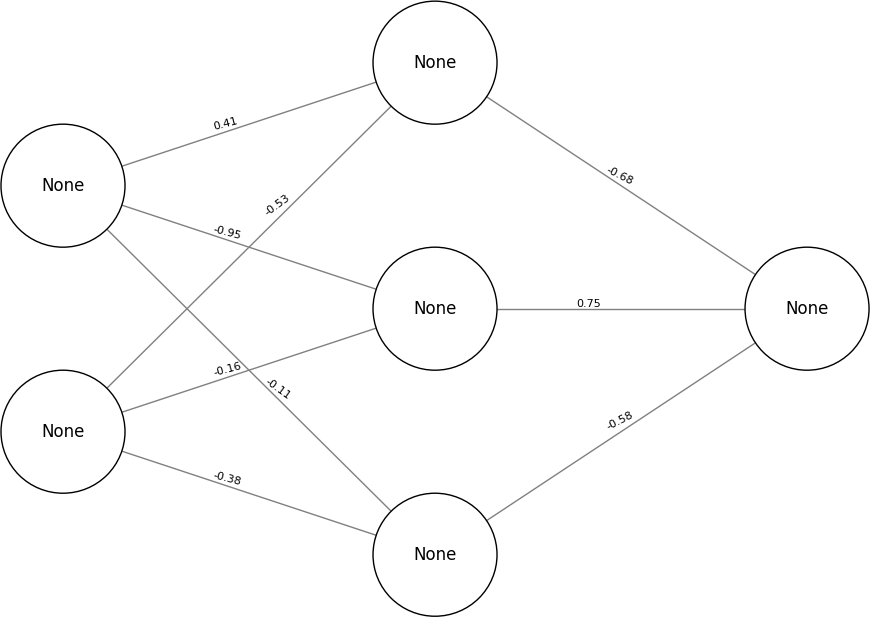
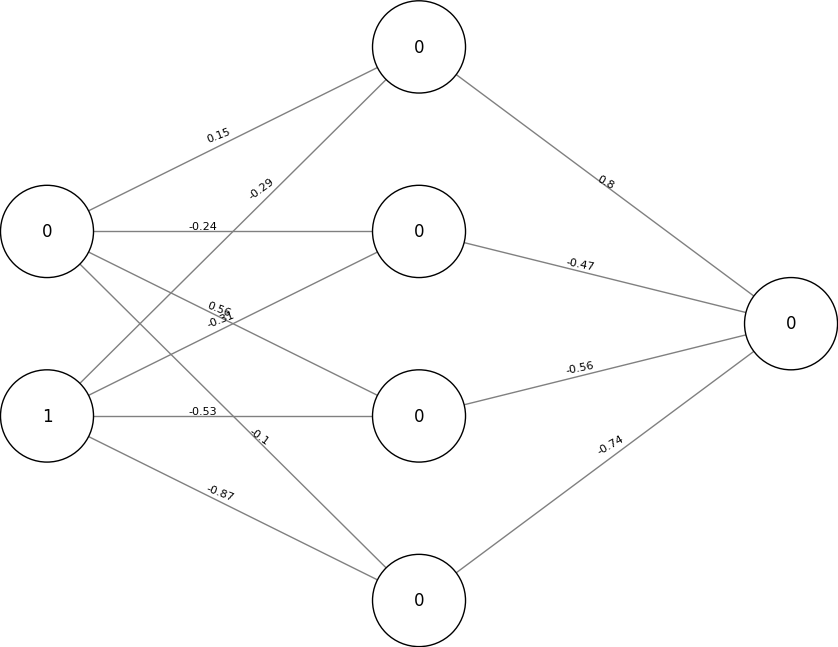
Hotfix on caching issue

diff --git a/philsite/project_neural/static/styles/style.css b/philsite/project_neural/static/styles/style.css
@@ -203,7 +203,7 @@ ul#menu li a:hover
 .sidebar_top
 { width: 222px;
   height: 14px;
-  background: transparent url(page_graphics/side_top.png) no-repeat;}
+  background: url(page_graphics/side_top.png) no-repeat;}
 
 .sidebar_base
 { width: 222px;
@@ -378,3 +378,14 @@ table tr td
 { float: left;
   font-size: 16px;
   width: 30px;}
+
+#diagram_title
+{ text-align: center;
+  font-size: 40px;}
+
+#diagram
+{ display: block;
+  margin-left: auto;
+  margin-right: auto;
+  border-style: groove;
+  border-width: medium;}

diff --git a/philsite/project_neural/templates/neural_net.html b/philsite/project_neural/templates/neural_net.html
@@ -135,7 +135,8 @@
         </div>
       </div>
       <div id="content">
-        <img src="/neural_static/diagrams/plot.png"
+        <h1 id="diagram_title"> Net Diagram </h1>
+        <img id="diagram" src={{ "/neural_static/diagrams/" + network.img_name }}></img>
       </div>
     </div>
     <div id="content_footer"></div>

diff --git a/philsite/project_neural/project_neural.py b/philsite/project_neural/project_neural.py
@@ -1,5 +1,7 @@
-from philsite import app, request, session, render_template, redirect, send_from_directory
+from philsite import app, request, session, render_template, redirect, send_from_directory, make_response
 import os, time
+from functools import wraps, update_wrapper
+from datetime import datetime
 import philsite.project_neural.network as net_gen
 
 path = "/neural_net"
@@ -11,17 +13,34 @@ network = net_gen.Network([2, 1, 1, 3], threshold=0.5)
 network.export_graph()
 training_data = net_gen.TrainingData(network, [([0, 0], [0]), ([0, 1], [1]), ([1, 0], [1]), ([1, 1], [0])])
 
+#
+#-----Wrapper to disable caching on a page-----
+#
+
+def nocache(view):
+    @wraps(view)
+    def no_cache(*args, **kwargs):
+        response = make_response(view(*args, **kwargs))
+        response.headers["Cache_Control"] = "no-store, no-cache, must-revalidate, post-check=0, pre-check=0, max-age=0"
+        response.headers["Pragma"] = "no-cache"
+        response.headers["Expires"] = "-1"
+        return response
+
+    return update_wrapper(no_cache, view)
+
 @app.route("/neural_static/<path:filename>")
 def neural_static(filename):
     return send_from_directory(static_dir, filename)
 
 @app.route(path)
+@nocache
 def neural_index():
     return render_template(dir_name+"templates/neural_net.html", network=network, training_data=training_data)
 
 
 @app.route(path+"/new_net", methods=["GET", "POST"])
 def generate_new_net():
+    global network
     if request.method == "POST":
         print(request.form)
         data = request.form

diff --git a/philsite/project_neural/network.py b/philsite/project_neural/network.py
@@ -1,5 +1,7 @@
 import numpy as np
 import copy
+import random
+import os
 import statistics as stat
 import matplotlib
 matplotlib.use('Agg')
@@ -76,6 +78,7 @@ class Network:
         self.initialise_synapses()
         self.synapses = [[y.input_synapses for y in x] for x in self.neurons]
         self.initialise_bias(bias_node)
+        self.img_name = None
         if random_weights: self.randomise_synapse_weights()
 
     def propagate(self, data):
@@ -206,10 +209,15 @@ class Network:
         fig.set_size_inches(10, 10)
         fig.gca().xaxis.set_major_locator(plt.NullLocator())
         fig.gca().yaxis.set_major_locator(plt.NullLocator())
-        plt.savefig("philsite/project_neural/static/diagrams/plot.png", bbox_inches="tight", pad_inches=0)
-        im = Image.open("philsite/project_neural/static/diagrams/plot.png")
+
+        if self.img_name:
+            os.remove("philsite/project_neural/static/diagrams/"+self.img_name)
+        self.img_name="plot" + str(random.randint(1, 100000)) + ".png"
+
+        plt.savefig("philsite/project_neural/static/diagrams/" + self.img_name, bbox_inches="tight", pad_inches=0)
+        im = Image.open("philsite/project_neural/static/diagrams/" + self.img_name)
         im = self.trim(im)
-        im.save("philsite/project_neural/static/diagrams/plot.png")
+        im.save("philsite/project_neural/static/diagrams/" + self.img_name)
 
     def trim(self, im):
         bg = Image.new(im.mode, im.size, im.getpixel((0,0)))

diff --git a/philsite/__init__.py b/philsite/__init__.py
@@ -1,5 +1,5 @@
 import sys
-from flask import Flask, render_template, request, make_response, redirect, session, send_from_directory
+from flask import Flask, render_template, request, make_response, redirect, session, send_from_directory, make_response
 import requests
 import re
 import jinja2
@@ -39,6 +39,8 @@ class AppDir:
         self.dir_name = dir_name
 
 directory = AppDir(app_dir)
+
+
 
 
 #
